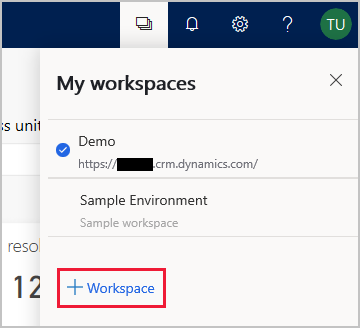
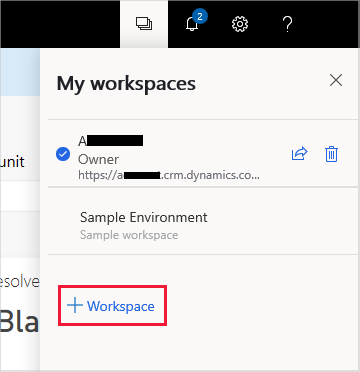
updated workspaces topic

diff --git a/ai-docs/customer-service-insights/use-workspaces.md b/ai-docs/customer-service-insights/use-workspaces.md
@@ -12,13 +12,20 @@ ms.author: stevesaunders1952
 manager: shellyha
 ---
 
-# Use workspaces to connect to different customer service environments
+# Use and manage workspaces to connect to different customer service environments
 
 [!INCLUDE [public-preview](../includes/public-preview.md)]
 
 When you work with the dashboards in Customer Service Insights, you have a choice of connecting to a live customer service environment or exploring the dashboards using sample data in the demo workspace. You can then create additional workspaces to gain insights into different customer service environments and switch between the workspaces.
 
-## Create an Customer Service Insights workspace
+You can use and manage workspaces in a variety of ways, including:
+
+* [Creating a workspace](#creating-a-workspace)
+* [Opening the demo workspace](#opening-the-demo-workspace)
+* [Switching between workspaces](#switching-between-workspaces)
+* [Deleting a workspace](#deleting-a-workspace)
+
+## Creating a workspace
 
 To launch Customer Service Insights, navigate to [https://csi.ai.dynamics.com](https://csi.ai.dynamics.com) in your browser. Customer Service Insights opens the **Connect your data** screen so you can create a workspace by connecting to a data source.
 
@@ -38,13 +45,13 @@ You can also create a new workspace by selecting the **Workspaces** icon on the 
 
   > ![Add workspaces](media/add-workspace.png)
 
-## Open the demo workspace
+## Opening the demo workspace
 
 By default, Customer Service Insights displays sample customer support data in a demo workspace. To open the demo workspace, select **demo workspace** on the **Connect your data** screen, or close the **Connect your data** screen.
 
 > ![Demo workspace](media/demo-workspace.png)
 
-## Switch between workspaces
+## Switching between workspaces
 
 Once you have created one or more workspaces, you can easily switch between workspaces, including the demo workspace.
 
@@ -54,10 +61,42 @@ To switch to a different workspace, select the **Workspaces** icon on the Custom
 
 Customer Service Insights opens the workspace and displays the customer service data associated with the workspace in the dashboards.
 
-## Delete a workspace
+## Deleting a workspace
 
 If you no longer want Customer Service Insights to display a workspace in the list of current workspaces, you can delete it.
 
 To delete a workspace, select the **Workspaces** icon on the Customer Service Insights title bar to open the **My workspaces** pane. Hover over the workspace you want to delete to display the **Delete** icon, and then select the icon.
 
 > ![Delete workspace](media/delete-workspace.png)
+<!---
+## Sharing a workspace
+
+If you want other users to have access to your workspace, you can share it.
+
+To share a workspace, select the **Workspaces** icon on the Customer Service Insights title bar to open the **My workspaces** pane. Hover over the workspace you want to delete to display the **Share** icon, and then select the icon.
+
+> ![Share workspace](media/share-workspace.png)
+
+On the **Share** tab of the **Share this workspace** dialog box, enter the email address of a user to share the workspace.
+
+1.	Users can see sharing icon from my workspaces
+2.	Add email address (within the tenant)
+3.	Optional message
+4.	Share will send user an email with link to access
+5.	To access shared workspace user would need a license 
+
+Managing access to workspaces
+
+1.	See users with access
+2.	Ability to revoke access 
+3.	Learn more page about roles and permissions, it’s a fwlink that we can link to this specific documentation page. 
+
+•	Owner: creator of a workspace. 
+ o	Every user who’s using our product before the sharing feature are owners of their workspaces.
+ o	They can manage access for their workspaces.
+•	Viewer: new read-only role introduced with the sharing feature. 
+ o	They can access workspaces created and shared by the owner. 
+ o	They will need a CSI license to see the workspace.
+ o	They cannot customize any settings or contribute to any AI feedback on the Topics page.
+
+-->

diff --git a/ai-docs/customer-service-insights/TOC.md b/ai-docs/customer-service-insights/TOC.md
@@ -4,7 +4,7 @@
 
 # How-tos
 
-## [Use workspaces to connect to different customer service environments](use-workspaces.md)
+## [Use and manage workspaces to connect to different customer service environments](use-workspaces.md)
 
 ## [Work with Customer Service Insights dashboards](use-dashboard-sample-data.md)
 
